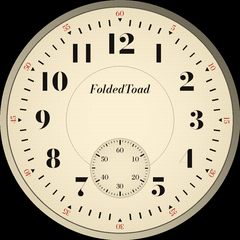
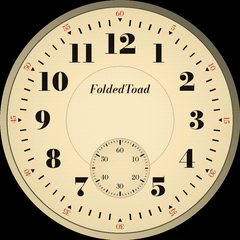
better watch-face

diff --git a/ui/assets/watch/make_watch_assets.py b/ui/assets/watch/make_watch_assets.py
@@ -79,8 +79,8 @@ def make_dial():
     d.ellipse([C - r, C - r, C + r, C + r], outline=(190, 180, 168), width=iw(0.5))
 
     # upright Arabic hour numerals (6 hidden by the seconds dial)
-    num_f = bodoni(25, weight=800, opsz=40)
-    num12 = bodoni(27, weight=800, opsz=40)
+    num_f = bodoni(25, weight=900, opsz=12)    # low opsz = sturdier hairlines
+    num12 = bodoni(27, weight=900, opsz=12)
     for h in range(1, 13):
         if h == 6:
             continue
@@ -168,7 +168,7 @@ def dither565(im):
 # Colour correction for the panel. Cheap GC9A01 IPS modules have a cool (bluish)
 # white point, so near-white enamel looks blue. Scale R, G, B before dithering
 # to warm it back up. (1, 1, 1) = no correction.
-PANEL_TINT = (1.00, 0.96, 0.86)
+PANEL_TINT = (1.00, 0.93, 0.78)
 
 def tint(im, k):
     r, g, b = im.split()
